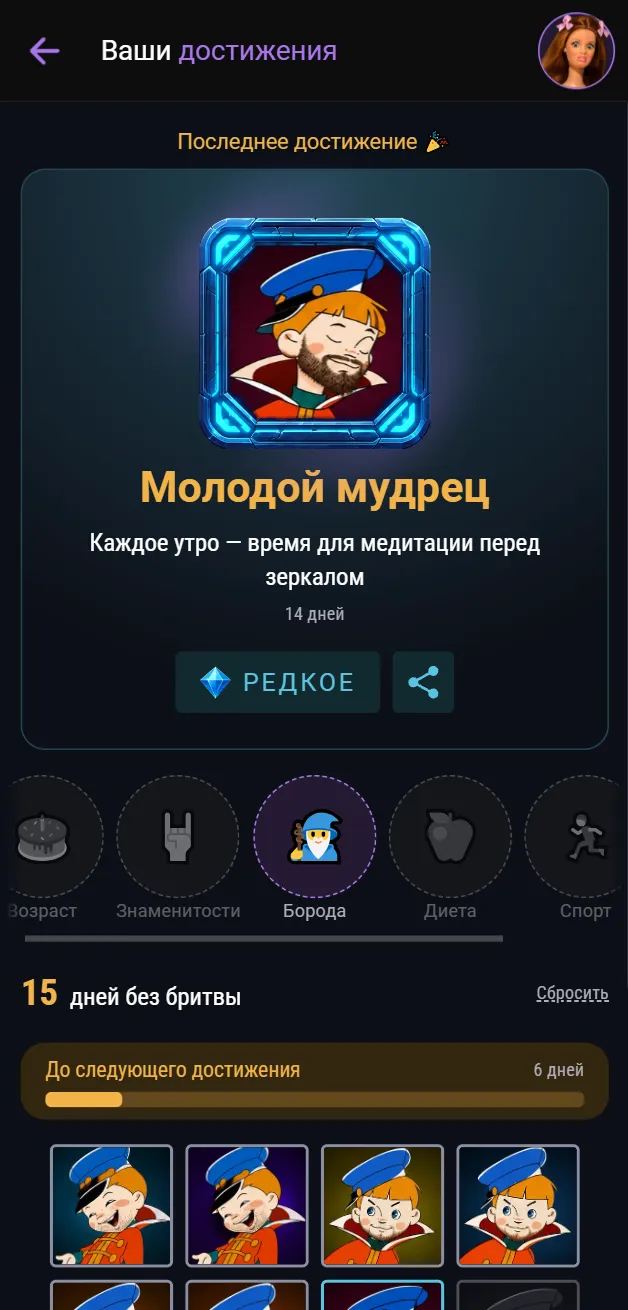
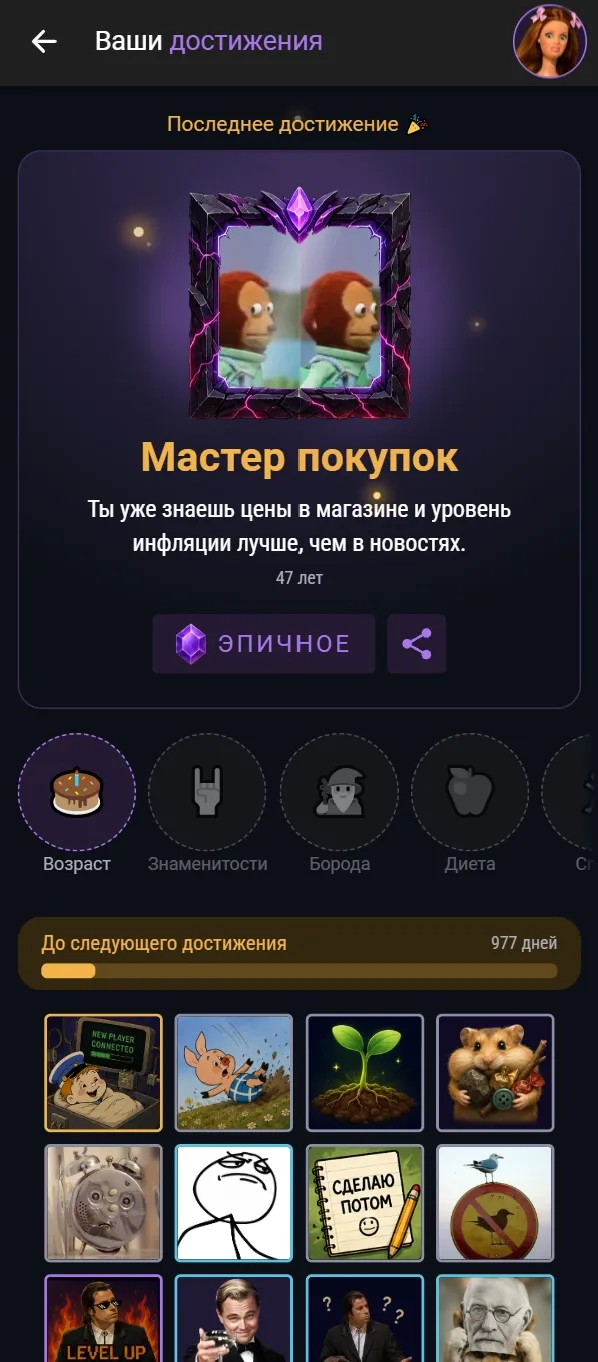
Update README for contacts birthdays and the onboarding tour + new screenshots
-- new sections describe the onboarding tour and the opt-in contacts feature, including that contacts never leave the phone
-- the web run note explains where the test contacts in development come from and that production builds leave them out
-- the structure and data sections cover the contacts page, store and reading strategy, the birth-date rules table and the missing GiftCard and AppVersion folders
-- main page, achievements and settings screenshots are refreshed for both the onboarding and the README, and the contacts and onboarding shots are added
-- intonation dashes are replaced and a few grammar slips fixed

diff --git a/README.md b/README.md
@@ -4,8 +4,8 @@
   # День рождения 🎂
 
 Мобильное приложение о датах жизни.<br />
-В приложении можно рассчитать примерную дату зачатия, если вы хотите завести ребёнка к определённому дню или узнать примерный день, когда было зачатие, если вы знаете дату рождения.<br />
-   Так же приложение считает дни до дня рождения, показывает прожитые недели сеткой, выдаёт достижения за возраст и кумиров, которых вы пережили и ведёт стрики полезных привычек. 
+Показывает прожитое время и всю жизнь в неделях, выдаёт достижения за годовщины и серии привычек, помогает примерно спланировать день рождения ребёнка и собирает поздравительную открытку, когда нужные слова не придумываются. В свой день рождения приложение поздравляет само, с конфетти и хлопушками, а о дате близкого человека напоминает за три дня. Дни рождения из контактов собирает в один список и в нужный день подсказывает, кого поздравить.<br />
+Всё считается на устройстве, без регистрации и интернета. Рекламы и платных функций нет.
 
 </div>
 
@@ -30,7 +30,7 @@
     <td width="50%" align="center">
       <img src="design/screen-achievement.webp" alt="Достижения" width="250" /><br />
       <b>Достижения</b><br />
-      Табы групп, счётчик стрика и прогресс до следующего достижения
+      Последнее достижение, табы групп и прогресс до следующего
     </td>
     <td width="50%" align="center">
       <img src="design/screen-achievement-detaled.webp" alt="Карточка достижения" width="250" /><br />
@@ -42,7 +42,7 @@
     <td width="50%" align="center">
       <img src="design/screen-birthday-wish.webp" alt="Поздравление" width="250" /><br />
       <b>Поздравление</b><br />
-      Открывается само в день рождения — с конфетти и хлопушками или можно поздравить себя самому, нажав кнопку поздравления на главной странице
+      Открывается само в день рождения, с конфетти и хлопушками, а кнопка на главной устроит то же самое в любой день
     </td>
     <td width="50%" align="center">
       <img src="design/screen-giftCard.webp" alt="Подарочная открытка" width="250" /><br />
@@ -83,7 +83,7 @@
     <td width="50%" align="center">
       <img src="design/screen-personalData.webp" alt="Настройки" width="250" /><br />
       <b>Настройки</b><br />
-      Даты, персонаж и шпаргалка «кто это»
+      Персонаж, даты, тумблер контактов и шпаргалка «кто это»
     </td>
   </tr>
   <tr>
@@ -91,6 +91,18 @@
       <img src="design/screen-choose-avatar.webp" alt="Выбор аватарки" width="250" /><br />
       <b>Выбор аватарки</b><br />
       Персонаж под настроение или кубик «решите за меня»
+    </td>
+    <td width="50%" align="center">
+      <img src="design/screen-contacts.webp" alt="Дни рождения из контактов" width="250" /><br />
+      <b>Дни рождения из контактов</b><br />
+      Ближайшие наверху, с днём недели и возрастом. Сегодняшних именинников можно сразу поздравить открыткой
+    </td>
+  </tr>
+  <tr>
+    <td width="50%" align="center">
+      <img src="design/screen-onboarding.webp" alt="Экскурсия" width="250" /><br />
+      <b>Экскурсия</b><br />
+      Слайды со скриншотами разделов при первом запуске. Листаются свайпом, экскурсию можно пропустить
     </td>
     <td width="50%"></td>
   </tr>
@@ -100,43 +112,57 @@
 
 ## ✨ Возможности
 
+### 👋 Экскурсия по приложению
+- При первом запуске приложение показывает короткие слайды со скриншотами разделов: что оно умеет и где это искать
+- Листается свайпом или кнопкой «Далее», экскурсию можно пропустить
+- На слайде про контакты функцию можно включить сразу, не заходя в профиль
+
 ### 🎂 Важные даты
 - Счётчик дней до вашего дня рождения
-- Напоминание о дне рождения близкого человека — с отдельным предупреждением за несколько дней
+- Обратный отсчёт до дня рождения близкого человека и срочное напоминание за три дня
 - Шпаргалка «кто это»: тёща, начальник и другие, чьё имя лучше не забывать
-- Поздравление с конфетти: в день рождения открывается само, один раз или если нажать на кнопку поздравления на главной странице и им можно поделиться
-- Аватарка-персонаж под настроение — с кнопкой случайного выбора
+- Поздравление с конфетти: в день рождения открывается само, в другие дни по кнопке на главной. Им можно поделиться картинкой
+- Аватарка-персонаж под настроение и кубик «Решите за меня» для случайного выбора
+
+### 📇 Дни рождения из контактов
+- Функция отключаемая: включается тумблером в профиле или прямо на слайде экскурсии, после этого на главной появляется плитка раздела
+- Обновившимся пользователям главная предложит функцию сама, но доступ к контактам спросит только по нажатию кнопки
+- Все дни рождения из телефонной книги в одном списке, ближайшие наверху. У праздников в ближайшие 60 дней указан день недели. Если в контакте есть год рождения, видно, сколько исполнится
+- В день рождения контакта на главной появляется карточка: «Поздравить» открывает открытку с уже вписанным именем, «Уже поздравили» прячет карточку до следующего года
+- Контакты читаются только на телефоне: приложение их не сохраняет и никуда не отправляет. Если отозвать доступ в настройках телефона, функция выключится сама
 
 ### 🎁 Подарочные открытки
-- Генератор поздравлений для другого человека: девять шаблонов и пять пулов кусочков — около 130 тысяч комбинаций
+- Генератор поздравлений для другого человека: шесть шаблонов и четыре пула кусочков, это больше 120 тысяч комбинаций
 - Имя получателя необязательно: без него у шаблона своя формулировка заголовка, а не обрезанная
 - «Ещё вариант» перебирает выдачи и не повторяет последние
 - Открытку можно отправить картинкой или скопировать текстом в мессенджер
-- Все формулировки безличны: ни рода, ни «ты/вы» — открытка подходит любому получателю
+- Все формулировки безличны: ни рода, ни «ты/вы», поэтому открытка подходит любому получателю
 
 ### 🎮 Жизненный прогресс
 - Каждая неделя жизни — квадратик, каждая строка — год, всё до расчётного предела
 - Живой счётчик прожитого времени: годы, месяцы, недели, дни, часы, минуты, секунды
-- Достижения прямо на сетке: возрастные вехи и недели жизни знаменитостей — с подсказками по тапу
+- Достижения прямо на сетке: возрастные вехи и недели жизни знаменитостей, по тапу открывается подсказка
 
 ### 🏆 Достижения
-- Шесть групп в табах: возраст, знаменитости, борода, диета, спорт и свадьба
-- Стрики привычек идут параллельно — у каждого свой запуск, сброс и ручной ввод даты начала, если привычка появилась раньше приложения
-- Достижения за прожитые в браке года
+- Семь групп в табах: возраст, знаменитости, борода, диета, спорт, свадьба и особые
+- Стрики привычек идут параллельно: у каждого свой запуск, сброс и ручной ввод даты начала, если привычка появилась раньше приложения
+- У каждой привычки свой личный рекорд, а после сброса видна и длина прошлой серии
+- Достижения за прожитые в браке годы
+- Особые достижения не привязаны ко времени: одни находят вас сами, другие прячутся. Во вкладке видны только найденные
 - Прогресс-бар до следующего достижения и счётчик пройденных дней внутри группы
 - Пять уровней редкости со своей рамкой и иконкой: обычное, редкое, эпичное, легендарное, мифическое
 - Карточка достижения открывается модалкой, ей можно поделиться картинкой
-- Виджет последнего полученного достижения — доступен с главной и со страницы ачивок
-- В `jsons/` лежат заготовки под будущие группы: игры, технологии, особые события и дни рождения — они пока не подключены к расчёту
+- Последнее полученное достижение видно на главной и на странице ачивок
+- В `jsons/` лежат заготовки под будущие группы: игры, технологии и дни рождения. К расчёту они пока не подключены
 
 ### 👶 Планирование зачатия и рождения
-- **Дата зачатия** — по дате рождения покажет примерную дату зачатия и что происходило в тот день
-- **Планирование рождения** — выберите желаемый день рождения и получите расчётную дату зачатия
+- **Дата зачатия**: по дате рождения покажет примерную дату зачатия и что происходило в тот день
+- **Планирование рождения**: выберите желаемый день рождения и получите расчётную дату зачатия
 - Праздники, именины, знаки зодиака и памятные даты с учётом диапазона сроков беременности
 
 ### ♀ Планирование для девушек
 - Расчёт дня овуляции по дате последних месячных и длине цикла
-- Длина цикла запоминается — выбрать её нужно один раз
+- Длина цикла запоминается, выбрать её нужно один раз
 - Фертильное окно с градацией вероятности зачатия
 - Статьи о влиянии алкоголя, курения и других факторов на фертильность
 
@@ -181,6 +207,7 @@
 | Хранилище     | Capacitor Preferences                    |
 | Шаринг        | Capacitor Share + Filesystem, html-to-image |
 | Внешние ссылки | Capacitor Browser                       |
+| Контакты      | @capgo/capacitor-contacts                |
 | Тесты         | Vitest (unit) + Cypress (e2e)            |
 
 ---
@@ -193,6 +220,8 @@
 npm install
 npm run dev
 ```
+
+> В браузере телефонной книги нет, поэтому в dev-режиме раздел контактов и карточки на главной показывают тестовые данные из `api/contactsMock.ts`. В production-сборку они не попадают.
 
 ### Android
 
@@ -211,14 +240,14 @@ npm run build:apk
 Собирает debug-версию: `vue-tsc` → `vite build` → `cap sync android` → `assembleDebug`.
 Готовый файл — `android/app/build/outputs/apk/debug/app-debug.apk`.
 
-> Нужен `JAVA_HOME` с путём к JDK 21 — подойдёт встроенный в Android Studio,
+> Нужен `JAVA_HOME` с путём к JDK 21. Подойдёт встроенный в Android Studio,
 > на Windows это `C:\Program Files\Android\Android Studio\jbr`.
 > Скрипт вызывает `.\gradlew.bat`, то есть рассчитан на Windows.
 
 ### Готовые сборки
 
 APK каждой версии лежит в [релизах](https://github.com/k206i/your-birthday/releases).
-Их собирает GitHub Actions по пушу тега `v*` — workflow в `.github/workflows/release.yml`.
+Их собирает GitHub Actions по пушу тега `v*`, workflow лежит в `.github/workflows/release.yml`.
 
 ---
 
@@ -244,24 +273,27 @@ npm run build
 
 ```
 src/
-├── api/              # Работа с данными: праздники, именины, зодиак, ачивки, стрики
+├── api/              # Работа с данными: праздники, именины, зодиак, ачивки, стрики, контакты
 ├── assets/           # Шрифты, глобальные стили, изображения
 ├── components/
 │   ├── Achievement/  # Карточки, тултип, плашка редкости и изображение достижения
 │   ├── AppHeader/
 │   ├── AppFooter/
+│   ├── AppVersion/   # Номер версии в профиле
 │   ├── Avatar/       # Аватарка в шапке и выбор персонажа
+│   ├── GiftCard/     # Открытка с поздравлением
 │   ├── Modals/       # Поздравление с днём рождения и карточка достижения
 │   ├── Ui/           # Базовые элементы (Input, DayCard, ProgressBar)
 │   └── Widgets/      # Блоки страниц: PageTitle, ArtButton, LifeTime, TipInfo...
-├── composables/      # Утилиты: даты, склонения, картинки ачивок, аватарки, шаринг
+├── composables/      # Утилиты: даты, склонения, картинки ачивок, аватарки, шаринг, тумблер контактов
 ├── jsons/            # Датасеты: ачивки, поздравления, праздники, именины, зодиак, знаменитости
 ├── router/           # Маршруты приложения
-├── store/            # Глобальный стор и реактивная текущая дата
+├── store/            # Глобальный стор, реактивная текущая дата и дни рождения из контактов
 ├── views/            # Страницы
 │   ├── HomePage.vue
 │   ├── AchievementsPage/
 │   ├── ChildBirthday/
+│   ├── ContactsBirthdaysPage/
 │   ├── DayConception/
 │   ├── DonationsPage/
 │   ├── FemaleCalendar/
@@ -280,12 +312,15 @@ src/
 - **`configApp.ts`** — единая точка настроек: сроки беременности, периоды воздержания, параметры овуляции, продолжительность жизни в неделях, цвета разделов и редкостей достижений.
 - **`jsons/achievements_*.json`** — достижения по группам. `age` и `famous` привязаны к неделе жизни через поле `weeks`, стрики (`beard`, `diet`, `sport`) — к числу дней привычки через `days`. Группа определяется префиксом `id`: `beard_7` относится к бороде.
 - **`api/getAchievementDate.ts`** — единственное место, где стрик привязан к полю стора. Словарь по типу `TStreakName` не даст добавить новый стрик и забыть про его дату: компилятор потребует запись.
+- **`api/syncBirthDateAchievements.ts`** — особые достижения по дате рождения. Правила лежат таблицей, новое добавляется одной строкой. Если дату рождения поменяли и правило больше не выполняется, достижение отзывается.
 - **`jsons/gift_card_templates.json` и `gift_card_slots.json`** — шаблоны открыток и пулы кусочков. У шаблона две строки заголовка (с именем и без) и один текст; куски подставляются по имени слота в фигурных скобках. Пул `gift` лежит в родительном падеже и без запятых внутри, `joke` — законченным предложением с заглавной.
 - **`jsons/`** — офлайн-датасеты праздников, именин, знаков зодиака, знаменитостей и поздравлений: приложение работает без интернета.
+- **`store/contactsStore.ts`** — дни рождения из контактов. Живут только в памяти: на диск не пишутся и никуда не отправляются. Сохраняются лишь флаг включения и отметки «Уже поздравили»: id контакта и дата.
+- **`api/getContactsBirthdays.ts`** — чтение контактов. Книга целиком читается при запуске, при включении функции и при входе в раздел. При возврате в приложение проверяется только разрешение, потому что полное чтение дорогое.
 
 ---
 ## 💻 Социальные сети
-Жду вас на моих каналах на [Boosty](https://boosty.to/k206i) и на [Twitch](https://www.twitch.tv/pavel_kliukin). Там я провожу стримы с совместным просмотром и обсуждением видео дней рождений, выложенных в открытом доступе и рассказываю про дни рождения знаменитых людей.
+Жду вас на моих каналах на [Boosty](https://boosty.to/k206i) и на [Twitch](https://www.twitch.tv/pavel_kliukin). Там я провожу стримы с совместным просмотром и обсуждением видео дней рождения, выложенных в открытом доступе, и рассказываю про дни рождения знаменитых людей.
 
 
 ---
